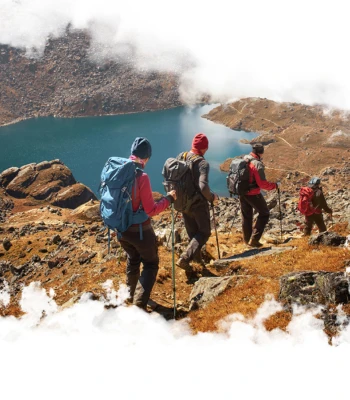
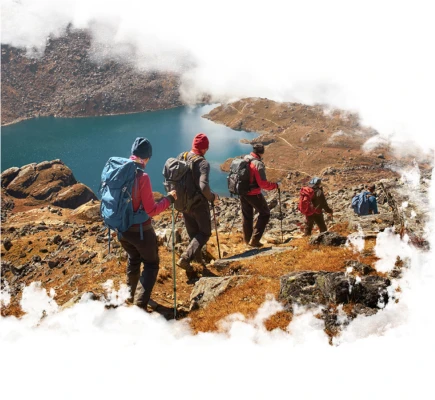
about finish mobile

diff --git a/source/index.html b/source/index.html
@@ -670,6 +670,22 @@
         </picture>
       </div>
       <section class="about">
+        <div class="about__img">
+          <picture>
+            <source type="image/webp" media="(max-width: 767px)" srcset="img/about/lake-mobile.webp 1x,
+              img/about/lake-mobile@2x.webp 2x">
+            <source type="image/jpg" media="(max-width: 767px)"
+              srcset="img/about/lake-mobile.jpg 1x, img/about/lake-mobile@2x.jpg 2x">
+
+            <source type="image/webp" media="(max-width: 1199px)" srcset="img/about/lake-tablet.webp 1x,
+              img/about/lake-tablet@2x.webp 2x">
+            <source type="image/jpg" media="(max-width: 1199px)"
+              srcset="img/about/lake-tablet.jpg 1x, img/about/lake-tablet@2x.jpg 2x">
+            <source type="image/webp" srcset="img/about/lake-desktop.webp 1x, img/about/lake-desktop@2x.webp 2x">
+            <img src="img/about/lake-desktop.jpg" width="808" height="474" srcset="img/about/lake-desktop@2x.png 2x"
+              alt="Изображение туристов у озера.">
+          </picture>
+        </div>
         <div class="container">
           <div class="about__wrapper">
             <div class="about__title-wrapper">
@@ -687,29 +703,15 @@
               <div class="about__text-block">
                 <h3 class="about__subtitle">Наша цель</h3>
                 <p class="about__text">Подарить вам незабываемые впечатления от похода в горы. Мы&nbsp;берём на себя
-                  все&nbsp;организационные вопросы. При&nbsp;организации мы&nbsp;обязательно учтём все&nbsp;ваши пожелания.
+                  все&nbsp;организационные вопросы. При&nbsp;организации мы&nbsp;обязательно учтём все&nbsp;ваши
+                  пожелания.
                   Вам&nbsp;останется только наслаждаться незабываемым приключением в&nbsp;приятной компании.</p>
               </div>
             </div>
           </div>
-          <div class="about__img">
-            <picture>
-              <source type="image/webp" media="(max-width: 767px)" srcset="img/about/lake-mobile.webp 1x,
-              img/about/lake-mobile@2x.webp 2x">
-              <source type="image/jpg" media="(max-width: 767px)"
-                srcset="img/about/lake-mobile.jpg 1x, img/about/lake-mobile@2x.jpg 2x">
-
-              <source type="image/webp" media="(max-width: 1199px)" srcset="img/about/lake-tablet.webp 1x,
-              img/about/lake-tablet@2x.webp 2x">
-              <source type="image/jpg" media="(max-width: 1199px)"
-                srcset="img/about/lake-tablet.jpg 1x, img/about/lake-tablet@2x.jpg 2x">
-              <source type="image/webp" srcset="img/about/lake-desktop.webp 1x, img/about/lake-desktop@2x.webp 2x">
-              <img src="img/about/lake-desktop.jpg" width="808" height="474" srcset="img/about/lake-desktop@2x.png 2x"
-                alt="Изображение туристов у озера.">
-            </picture>
-          </div>
         </div>
       </section>
+
       </main>
       <footer class="footer"></footer>
   </div>

diff --git a/source/sass/blocks/about.scss b/source/sass/blocks/about.scss
@@ -4,6 +4,12 @@
 
   @include vp-1200 {
     padding: 9px 0 0;
+    min-height: 541px;
+  }
+
+  @include vp-767 {
+    padding: 0;
+    min-height: none;
   }
 }
 
@@ -15,6 +21,11 @@
     width: auto;
     margin-left: 408px;
   }
+
+  @include vp-767 {
+    width: auto;
+    margin-left: 0;
+  }
 }
 
 .about__title-wrapper {
@@ -23,6 +34,10 @@
 
   @include vp-1200 {
     margin-bottom: 35px;
+  }
+
+  @include vp-767 {
+    margin-bottom: 25px;
   }
 }
 
@@ -37,6 +52,12 @@
     font-size: 25px;
     line-height: 25px;
     padding-left: 6px;
+  }
+
+  @include vp-767 {
+    padding-left: 0;
+    font-size: 22px;
+    line-height: 22px;
   }
 }
 
@@ -53,6 +74,11 @@
     line-height: 40px;
     bottom: 0;
   }
+
+  @include vp-767 {
+    font-size: 26px;
+    line-height: 26px;
+  }
 }
 
 .about__text-wrapper {
@@ -63,6 +89,10 @@
 
   @include vp-1200 {
     gap: 29px;
+  }
+
+  @include vp-767 {
+    gap: 16px;
   }
 
   h3 {
@@ -78,6 +108,12 @@
       line-height: 18px;
       margin-bottom: 11px;
     }
+
+    @include vp-767 {
+      font-size: 16px;
+      line-height: 16px;
+      margin-bottom: 13px;
+    }
   }
 
   p {
@@ -85,6 +121,12 @@
     padding: 0;
     font-size: 14px;
     line-height: 22px;
+
+    @include vp-767 {
+      font-size: 14px;
+      line-height: 20px;
+      margin-bottom: 11px;
+    }
   }
 }
 
@@ -100,6 +142,21 @@
     height: 350px;
     width: 542px;
     top: 51px;
+  }
+
+  @include vp-767 {
+    top: 0;
+    height: 400px;
+    width: 434px;
+    position: static;
+    margin-bottom: 7px;
+  }
+}
+
+.about__img img {
+  @include vp-767 {
+    height: 400px;
+    width: 434px;
   }
 }
 

diff --git a/source/sass/blocks/learning.scss b/source/sass/blocks/learning.scss
@@ -10,6 +10,7 @@
 
   @include vp-767 {
     padding: 0 15px;
+    margin-bottom: 20px;
   }
 }
 
